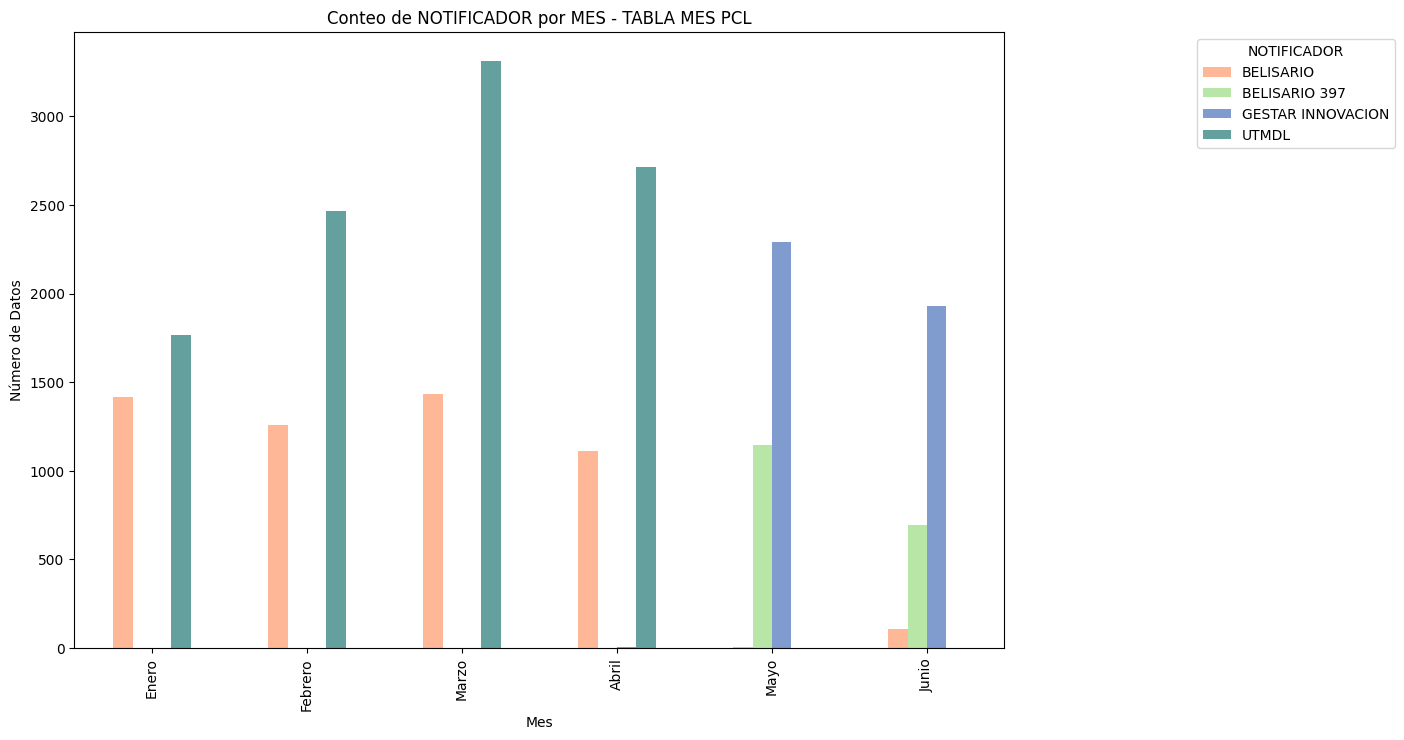
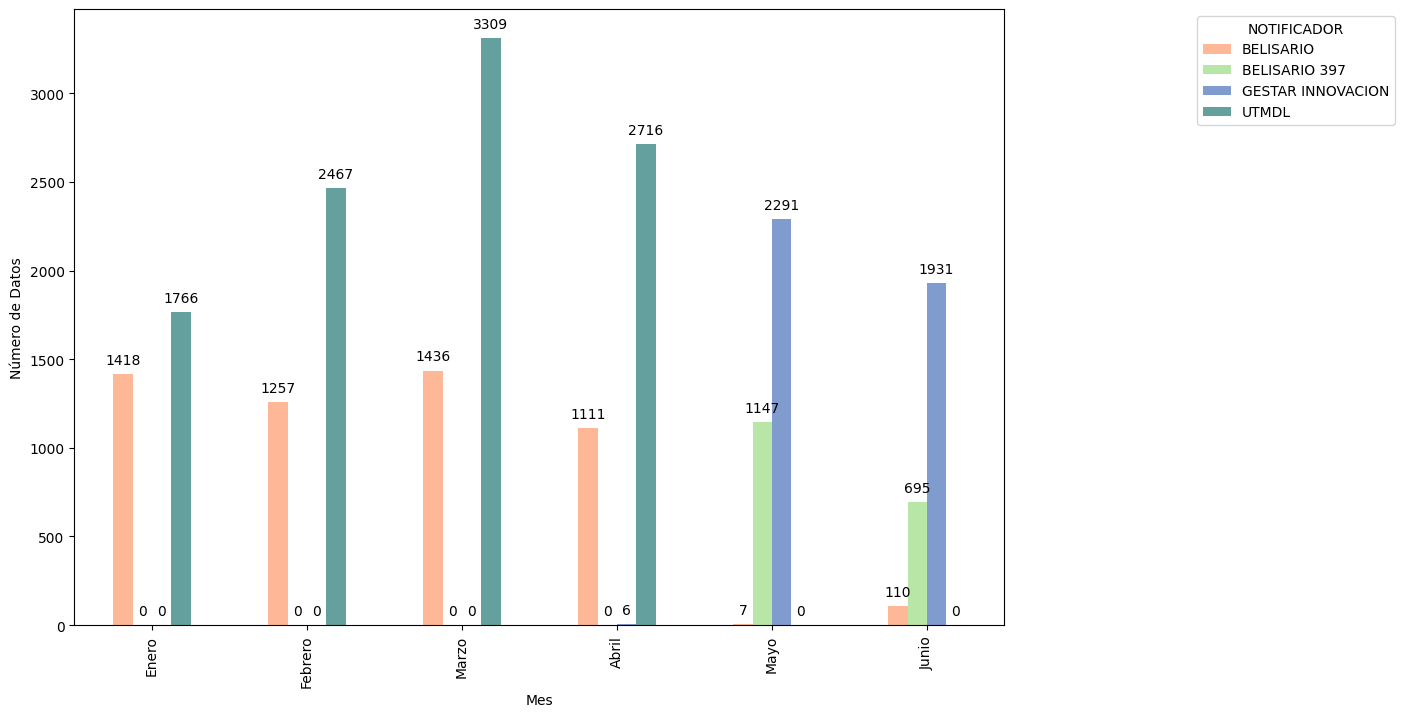
Primera prueba proceso 2 y arreglos gráfica de barras, quitar titulos, agregar etiquetas

diff --git a/views/proceso2.py b/views/proceso2.py
@@ -1,0 +1,163 @@
+import streamlit as st
+import pandas as pd
+from io import BytesIO
+from openpyxl import Workbook
+from openpyxl.utils.dataframe import dataframe_to_rows
+from openpyxl.styles import Border, Side, PatternFill
+import csv
+
+# Función para procesar y generar la tabla de ESTADO_INFORME y NOTIFICADORES
+def generar_tabla_estado_notificadores(df):
+    # Agrupar los datos por 'ESTADO_INFORME' y 'NOTIFICADOR' y contar los registros
+    conteo = df.groupby(['ESTADO_INFORME', 'NOTIFICADOR']).size().unstack(fill_value=0)
+
+    # Agregar columna 'TOTAL' para cada 'ESTADO_INFORME'
+    conteo['TOTAL'] = conteo.sum(axis=1)
+
+    # Agregar fila 'TOTAL GENERAL'
+    total_general = conteo.sum().sum()
+    conteo.loc['TOTAL GENERAL'] = conteo.sum()
+
+    # Calcular el porcentaje por cada celda respecto al total general
+    conteo_percentage = conteo.div(total_general).multiply(100).round(2)
+    conteo_percentage['TOTAL'] = conteo_percentage.sum(axis=1)  # Asegurar que la fila 'TOTAL' sea el 100%
+
+    # Crear la tabla con el formato deseado
+    tabla_final = conteo.join(conteo_percentage, lsuffix='_TOTAL', rsuffix='_PCT')
+
+    return tabla_final
+
+
+# Función para generar el archivo Excel con la tabla y los gráficos
+def generar_tablas_estado_informe(archivo_subido):
+    archivo_subido.seek(0)
+    df = pd.read_excel(archivo_subido)
+
+    # Verificar que las columnas necesarias existan
+    if "ESTADO_INFORME" in df.columns and "NOTIFICADOR" in df.columns:
+        # Generar la tabla de ESTADO_INFORME y NOTIFICADOR
+        tabla_final = generar_tabla_estado_notificadores(df)
+
+        # Crear un archivo Excel
+        libro = Workbook()
+        hoja = libro.active
+        hoja.title = "Estado Informe y Notificadores"
+
+        # Escribir los encabezados de la tabla
+        for col_num, col_name in enumerate(tabla_final.columns, 1):
+            hoja.cell(row=1, column=col_num, value=col_name)
+
+        # Escribir los datos de la tabla
+        for row_num, row in enumerate(dataframe_to_rows(tabla_final, index=True, header=False), 2):
+            for col_num, cell_value in enumerate(row, 1):
+                hoja.cell(row=row_num, column=col_num, value=cell_value)
+
+        # Aplicar formato a la tabla
+        for col in hoja.columns:
+            max_length = 0
+            column = col[0].column_letter  # Get the column name
+            for cell in col:
+                try:
+                    if len(str(cell.value)) > max_length:
+                        max_length = len(cell.value)
+                except:
+                    pass
+            adjusted_width = (max_length + 2)
+            hoja.column_dimensions[column].width = adjusted_width
+
+        # Agregar bordes y fondo gris para los encabezados
+        borde = Border(
+            left=Side(style="thin", color="000000"),
+            right=Side(style="thin", color="000000"),
+            top=Side(style="thin", color="000000"),
+            bottom=Side(style="thin", color="000000")
+        )
+        fondo_gris = PatternFill(start_color="D9D9D9", end_color="D9D9D9", fill_type="solid")
+
+        for cell in hoja["1:1"]:
+            cell.border = borde
+            cell.fill = fondo_gris
+
+        # Guardar el archivo generado
+        output = BytesIO()
+        libro.save(output)
+        output.seek(0)
+        return output
+    else:
+        st.error("El archivo no contiene las columnas necesarias: 'ESTADO_INFORME' y 'NOTIFICADOR'.")
+        return None
+
+
+# Función para subir el archivo
+def subir_archivo2():
+    archivo = st.file_uploader("Sube un archivo (.xlsx o .csv)", type=["xlsx", "csv"], key="file_uploader")
+    
+    if archivo is not None:
+        try:
+            nombre_archivo = archivo.name.lower()
+
+            if nombre_archivo.endswith(".xlsx"):
+                # Verificar que el archivo Excel tenga las hojas necesarias
+                xls = pd.ExcelFile(archivo)
+                hojas = xls.sheet_names
+
+                if "DTO" in hojas and "PCL" in hojas:
+                    st.success("¡Archivo Excel válido! Se encontraron las hojas DTO y PCL.")
+                    return archivo, "xlsx"
+                else:
+                    if "DTO" not in hojas:
+                        st.error("La hoja 'DTO' no se encuentra en el archivo.")
+                    if "PCL" not in hojas:
+                        st.error("La hoja 'PCL' no se encuentra en el archivo.")
+                    return None, None
+
+            elif nombre_archivo.endswith(".csv"):
+                # Intentar leer el archivo CSV con opciones avanzadas para manejar líneas problemáticas
+                try:
+                    # Leer el archivo CSV con un manejo más robusto de las líneas problemáticas
+                    df = pd.read_csv(archivo, 
+                                     on_bad_lines='skip',  # Omitir líneas con problemas
+                                     quoting=csv.QUOTE_NONE, # No esperar comillas en los campos
+                                     delimiter=',',          # Especificar el delimitador
+                                     engine='python')       # Usar el motor de Python, más flexible
+
+                    if "DTO" in df.columns and "PCL" in df.columns:
+                        st.success("¡Archivo CSV válido! Se encontraron las columnas DTO y PCL.")
+                        return archivo, "csv"
+                    else:
+                        st.warning("El archivo CSV no contiene las columnas 'DTO' y 'PCL'.")
+                        return None, None
+                except Exception as e:
+                    st.error(f"Error al leer el archivo CSV: {e}")
+                    return None, None
+
+        except Exception as e:
+            st.error(f"Error al procesar el archivo: {e}")
+            return None, None
+
+    return None, None
+
+
+# Función para descargar el archivo generado
+def descargar_excel(output, nombre="archivo_procesado.xlsx"):
+    st.download_button(
+        label="📥 Descargar archivo",  
+        data=output,
+        file_name=nombre,
+        mime="application/vnd.openxmlformats-officedocument.spreadsheetml.sheet"
+    )
+
+
+# Función para procesar el archivo y generar la tabla
+def procesar_archivos2():
+    archivo, tipo = subir_archivo2()
+
+    if archivo and tipo == "xlsx":
+        output = generar_tablas_estado_informe(archivo)
+        if output:
+            descargar_excel(output, nombre="informe_estado_informe.xlsx")
+            st.success("✅ Archivo generado con éxito.")
+    elif archivo and tipo == "csv":
+        st.warning("Actualmente el procesamiento está disponible solo para archivos .xlsx con las columnas 'ESTADO_INFORME' y 'NOTIFICADOR'.")
+    else:
+        st.error("No se ha cargado un archivo válido.")

diff --git a/views/proceso1.py b/views/proceso1.py
@@ -47,6 +47,7 @@ def subir_archivo():
     return None, None
 
 colores = ['#FFB897', '#B8E6A7', '#809bce', "#64a09d", '#CBE6FF', '#E6E6FA']
+
 # ------------------------------------------------------------------------------ GRÁFICOS BARRAS---------------------------------------------------------------------------------
 def graficas_barras(df, colores, nombre_hoja):
     # Agrupar por MES y NOTIFICADOR y contar los registros
@@ -65,12 +66,19 @@ def graficas_barras(df, colores, nombre_hoja):
     ax = conteo.plot(kind='bar', figsize=(fig_width, fig_height), color=colores)
 
     # Personalizar la gráfica
-    ax.set_title(f'Conteo de NOTIFICADOR por MES - {nombre_hoja}')
     ax.set_xlabel('Mes')
     ax.set_ylabel('Número de Datos')
 
     # Ajustar la leyenda para que siempre esté visible
     ax.legend(title='NOTIFICADOR', bbox_to_anchor=(1.2, 1), loc='upper left', fontsize=10)
+
+    # Añadir los números encima de cada barra
+    for p in ax.patches:
+        ax.annotate(f'{p.get_height()}', 
+                    (p.get_x() + p.get_width() / 2., p.get_height()), 
+                    xytext=(0, 5),  # Desplazamiento del texto
+                    textcoords='offset points',
+                    ha='center', va='bottom', fontsize=10, color='black')
 
     # Guardar la gráfica como imagen
     grafico_path = f"{nombre_hoja}_grafico_barras.png"
@@ -78,7 +86,6 @@ def graficas_barras(df, colores, nombre_hoja):
 
     # Devolver la ruta de la imagen guardada
     return grafico_path
-
 
 
 
@@ -96,7 +103,6 @@ def graficas_pastel(df, nombre_hoja):
     ax.pie(conteo, labels=conteo.index, autopct='%1.1f%%', startangle=90, colors=colores)
 
     # Personalizar la gráfica
-    ax.set_title(f'Distribución por MES - {nombre_hoja}')
     ax.legend(title='Meses', loc='center left', bbox_to_anchor=(1.05, 0.5), fontsize=10)
 
     # Guardar la gráfica como imagen

diff --git a/app.py b/app.py
@@ -1,6 +1,26 @@
 import streamlit as st
 from views.proceso1 import procesar_archivos
+from views.proceso2 import procesar_archivos2
 
-st.title("📊 Proceso 1")
+# Título
+st.title("🔔 Notificaciones")
 
-procesar_archivos()
+# Menú 
+opciones_menu = ["Proceso 1", "Proceso 2"]
+
+# Mostrar el menú en la barra lateral
+opcion_seleccionada = st.sidebar.selectbox("Seleccione un proceso", opciones_menu)
+
+# ------------------------------------------------------------------------------ Proceso 1 ---------------------------------------------------------------------------------
+if opcion_seleccionada == "Proceso 1":
+    st.subheader("Graficación año DTO y PCL")
+    procesar_archivos()  
+# ------------------------------------------------------------------------------ Proceso 2 ---------------------------------------------------------------------------------
+elif opcion_seleccionada == "Proceso 2":
+    st.subheader("Graficación Medicina Laboral")
+    procesar_archivos2()
+else:
+    st.write("Por favor, selecciona un proceso del menú.")
+
+
+
